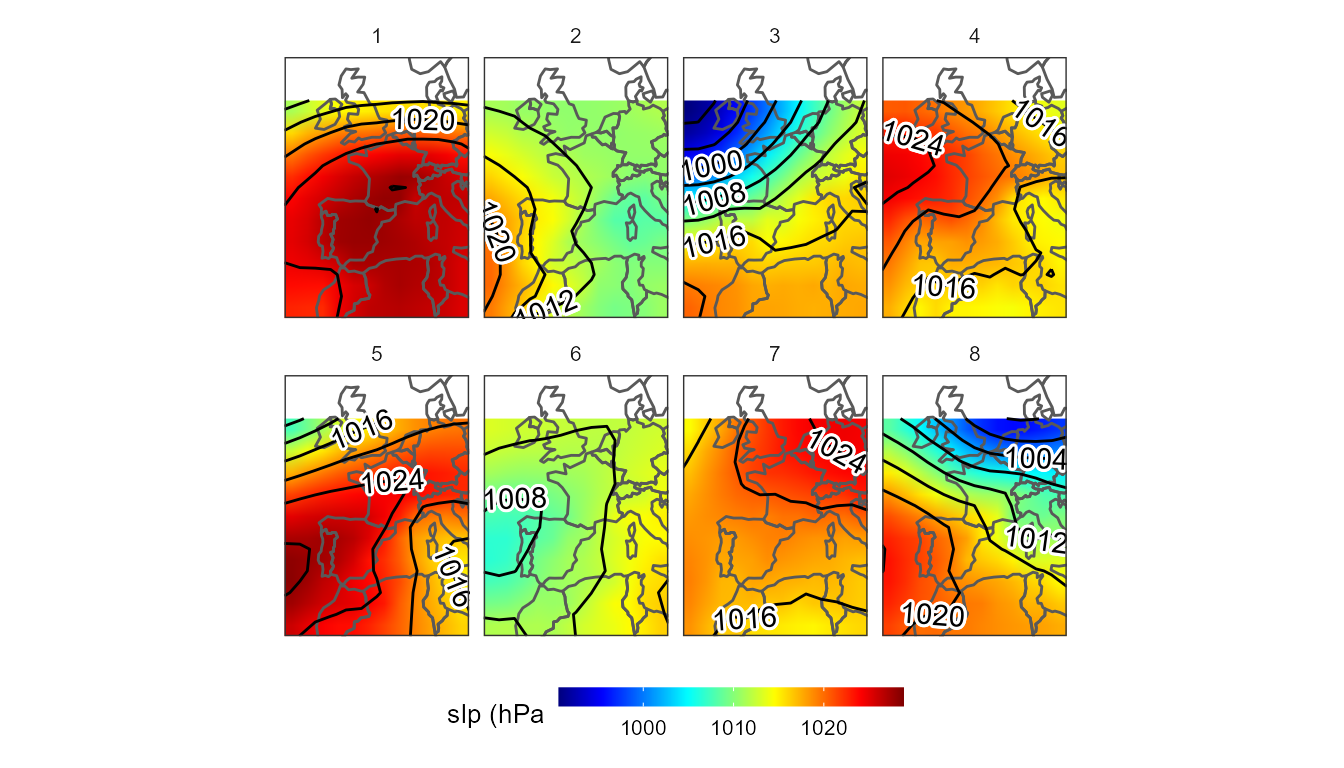
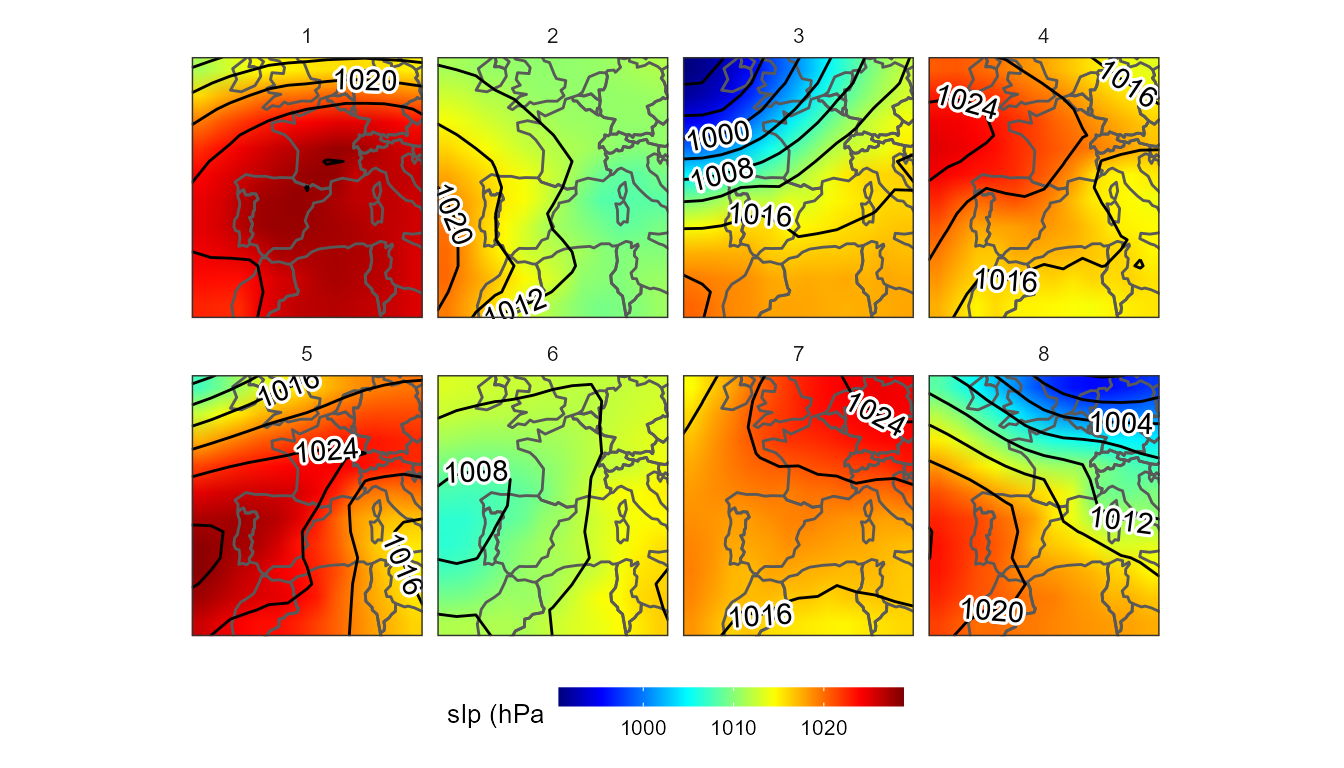
update 1.2.1

diff --git a/synoptreg/articles/classification_metrics.html b/synoptreg/articles/classification_metrics.html
@@ -150,7 +150,6 @@
     <span class="fu"><a href="https://ggplot2.tidyverse.org/reference/scale_gradient.html">scale_fill_gradientn</a></span><span class="op">(</span>colours <span class="op">=</span> <span class="fu">pals</span><span class="fu">::</span><span class="fu"><a href="http://kwstat.github.io/pals/reference/continuous.html">jet</a></span><span class="op">(</span><span class="fl">100</span><span class="op">)</span>,name <span class="op">=</span> <span class="st">"slp (hPa"</span><span class="op">)</span> <span class="op">+</span>
     <span class="fu"><a href="https://ggplot2.tidyverse.org/reference/scale_continuous.html">scale_x_continuous</a></span><span class="op">(</span>limits <span class="op">=</span> <span class="fu"><a href="https://rdrr.io/r/base/c.html">c</a></span><span class="op">(</span><span class="op">-</span><span class="fl">15</span>,<span class="fl">15</span><span class="op">)</span>, expand <span class="op">=</span> <span class="fu"><a href="https://rdrr.io/r/base/c.html">c</a></span><span class="op">(</span><span class="fl">0</span>, <span class="fl">0</span><span class="op">)</span><span class="op">)</span><span class="op">+</span>
     <span class="fu"><a href="https://ggplot2.tidyverse.org/reference/scale_continuous.html">scale_y_continuous</a></span><span class="op">(</span>limits <span class="op">=</span> <span class="fu"><a href="https://rdrr.io/r/base/c.html">c</a></span><span class="op">(</span><span class="fl">30</span>,<span class="fl">55</span><span class="op">)</span>, expand <span class="op">=</span> <span class="fu"><a href="https://rdrr.io/r/base/c.html">c</a></span><span class="op">(</span><span class="fl">0</span>,<span class="fl">0</span><span class="op">)</span><span class="op">)</span><span class="op">+</span>
-    <span class="fu"><a href="https://ggplot2.tidyverse.org/reference/scale_continuous.html">scale_y_continuous</a></span><span class="op">(</span>limits <span class="op">=</span> <span class="fu"><a href="https://rdrr.io/r/base/c.html">c</a></span><span class="op">(</span><span class="fl">30</span>,<span class="fl">60</span><span class="op">)</span>, expand <span class="op">=</span> <span class="fu"><a href="https://rdrr.io/r/base/c.html">c</a></span><span class="op">(</span><span class="fl">0</span>,<span class="fl">0</span><span class="op">)</span><span class="op">)</span><span class="op">+</span>
     <span class="fu"><a href="https://ggplot2.tidyverse.org/reference/ggtheme.html">theme_bw</a></span><span class="op">(</span><span class="op">)</span> <span class="op">+</span>
     <span class="fu"><a href="https://ggplot2.tidyverse.org/reference/theme.html">theme</a></span><span class="op">(</span>
       panel.grid.major <span class="op">=</span> <span class="fu"><a href="https://ggplot2.tidyverse.org/reference/element.html">element_blank</a></span><span class="op">(</span><span class="op">)</span>, 
